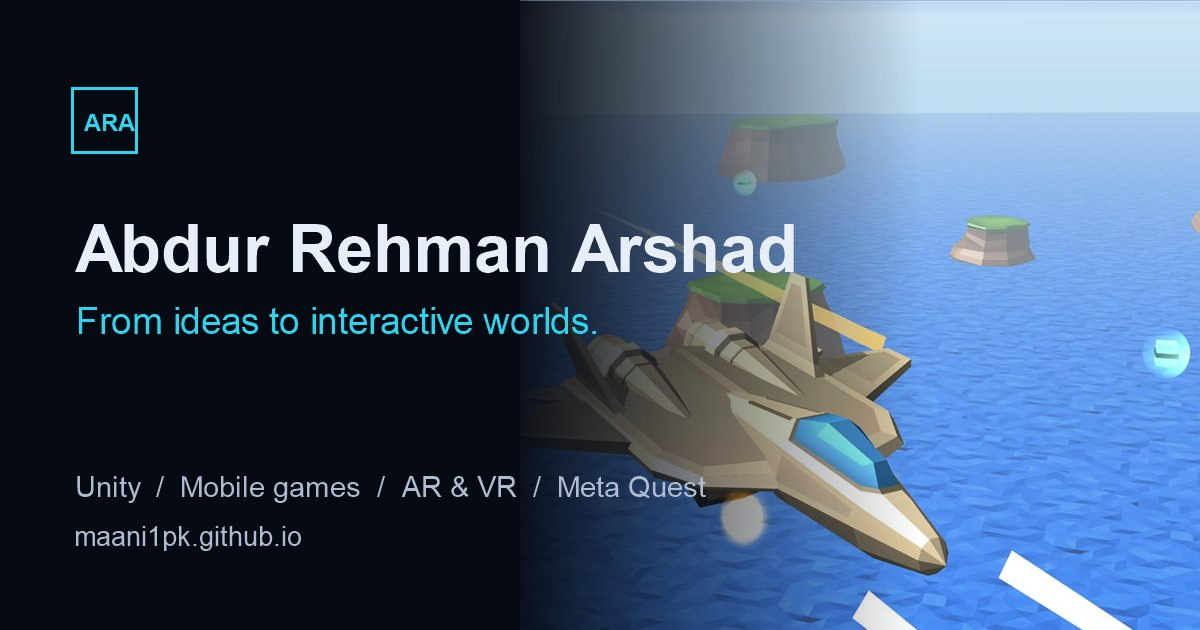
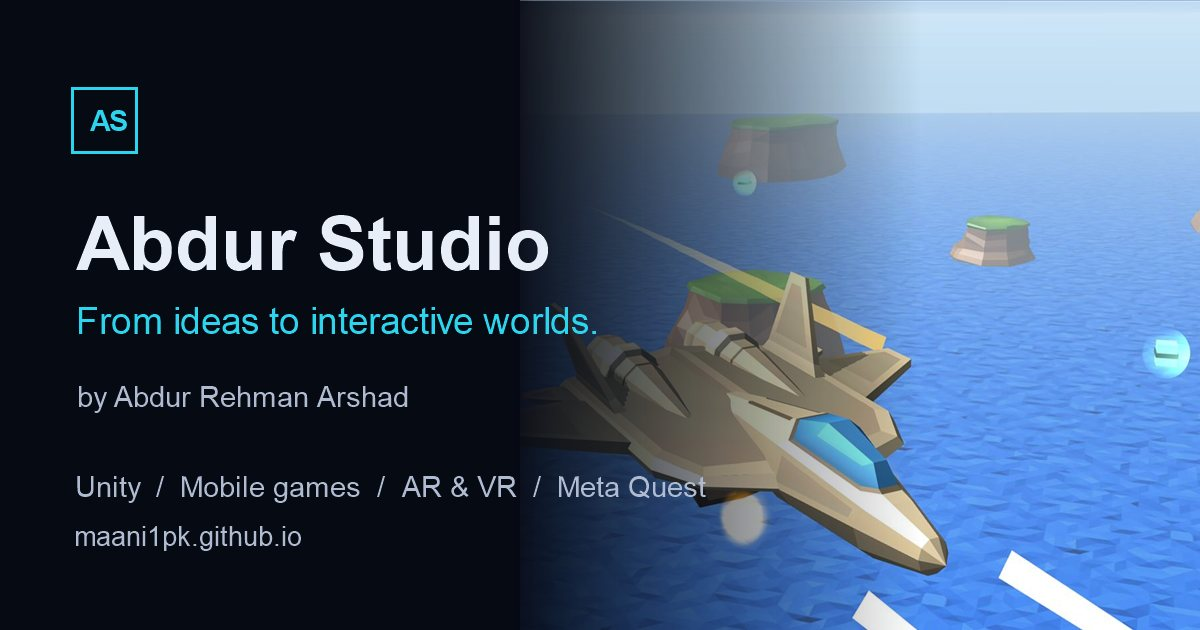
Rebrand as Abdur Studio; link original Skyfang site
Studio name set to Abdur Studio across pages, favicon and share image. Removed the duplicate Skyfang page; all Skyfang links now go to the existing /skyfang/ site, which is unchanged.

Changed region(s): [[0.0617, 0.3317, 0.6783, 0.4524], [0.0617, 0.6032, 0.3392, 0.6635], [0.0617, 0.181, 0.1233, 0.2111]]

diff --git a/index.html b/index.html
@@ -3,13 +3,13 @@
 <head>
 <meta charset="utf-8">
 <meta name="viewport" content="width=device-width, initial-scale=1">
-<title>Abdur Rehman Arshad — Unity, Game &amp; AR/VR Developer</title>
+<title>Abdur Studio — Games, Apps &amp; AR/VR by Abdur Rehman Arshad</title>
 <meta name="description" content="Abdur Rehman Arshad builds mobile games, Unity apps, AR and Meta Quest VR experiences and interactive 3D products — from concept to release. CEO of Vimersive Studio.">
 <link rel="canonical" href="https://maani1pk.github.io/">
 <meta name="theme-color" content="#060A13">
 <meta property="og:type" content="website">
-<meta property="og:site_name" content="Abdur Rehman Arshad">
-<meta property="og:title" content="Abdur Rehman Arshad — From ideas to interactive worlds">
+<meta property="og:site_name" content="Abdur Studio">
+<meta property="og:title" content="Abdur Studio — From ideas to interactive worlds">
 <meta property="og:description" content="Mobile games, Unity apps, AR/VR and interactive 3D — from concept to release.">
 <meta property="og:url" content="https://maani1pk.github.io/">
 <meta property="og:image" content="https://maani1pk.github.io/assets/img/og.jpg">
@@ -21,18 +21,18 @@
 <link rel="stylesheet" href="https://fonts.googleapis.com/css2?family=Inter:wght@400;500;600&amp;family=Sora:wght@500;600;700&amp;display=swap">
 <link rel="stylesheet" href="/assets/css/site.css">
 <script type="application/ld+json">
-{"@context":"https://schema.org","@type":"Person","name":"Abdur Rehman Arshad","url":"https://maani1pk.github.io/","jobTitle":"Unity, Game and AR/VR Developer","email":"mailto:maani1pk@gmail.com","worksFor":{"@type":"Organization","name":"Vimersive Studio","url":"https://vimersive.studio"},"knowsAbout":["Unity","C#","Game development","Augmented reality","Virtual reality","Meta Quest","OpenXR","AR Foundation"]}
+{"@context":"https://schema.org","@type":"Person","name":"Abdur Rehman Arshad","url":"https://maani1pk.github.io/","jobTitle":"Unity, Game and AR/VR Developer","email":"mailto:maani1pk@gmail.com","brand":{"@type":"Brand","name":"Abdur Studio"},"worksFor":{"@type":"Organization","name":"Vimersive Studio","url":"https://vimersive.studio"},"knowsAbout":["Unity","C#","Game development","Augmented reality","Virtual reality","Meta Quest","OpenXR","AR Foundation"]}
 </script>
 </head>
 <body>
 <a class="skip" href="#main">Skip to content</a>
 <header class="site-header">
 <nav class="wrap nav" aria-label="Main">
-<a class="brand" href="/"><span class="brand__mark" aria-hidden="true">ARA</span><span>Abdur Rehman Arshad</span></a>
+<a class="brand" href="/"><span class="brand__mark" aria-hidden="true">AS</span><span>Abdur Studio</span></a>
 <button class="nav-toggle" type="button" aria-expanded="false" aria-controls="site-menu">Menu</button>
 <div class="menu" id="site-menu">
 <a href="/work/">Work</a>
-<a href="/work/skyfang.html">Skyfang</a>
+<a href="/skyfang/">Skyfang</a>
 <a href="/services/">Services</a>
 <a href="/#studio">Studio</a>
 <a href="/#vimersive">Vimersive</a>
@@ -53,7 +53,7 @@
 <a class="btn btn--text" href="#studio">About my studio →</a>
 </div>
 </div>
-<a class="feature-shot" href="/work/skyfang.html">
+<a class="feature-shot" href="/skyfang/">
 <img src="/assets/img/skyfang/hero.jpg" alt="Skyfang fighter jet in flight above the clouds" width="1920" height="823" fetchpriority="high">
 <span class="feature-shot__bar">
 <img src="/assets/img/skyfang/icon.jpg" alt="" width="48" height="48">
@@ -78,7 +78,7 @@
 <a href="/work/">View full portfolio →</a>
 </div>
 <div class="grid" id="featured-projects"></div>
-<noscript><p class="muted">See the <a href="/work/skyfang.html">Skyfang project page</a>. The project gallery needs JavaScript.</p></noscript>
+<noscript><p class="muted">See the <a href="/skyfang/">Skyfang project page</a>. The project gallery needs JavaScript.</p></noscript>
 </section>
 
 <section class="section wrap split" aria-labelledby="about-h">
@@ -96,7 +96,7 @@
 <div class="wrap split split--center">
 <div class="stack">
 <p class="eyebrow">My independent studio</p>
-<h2 class="h2" id="studio-h" data-brand="studioName">[MY STUDIO NAME]</h2>
+<h2 class="h2" id="studio-h" data-brand="studioName">Abdur Studio</h2>
 <p class="muted">My own label for games, mobile apps, AR/VR and interactive experiences. Small by design: you work directly with the developer building your product, from prototype through release.</p>
 <div class="btn-row">
 <a class="btn btn--primary" href="/services/">See services</a>
@@ -143,9 +143,9 @@
 
 <footer class="site-footer">
 <div class="wrap">
-<span>© <span data-year>2026</span> Abdur Rehman Arshad · <span data-brand="studioName">[MY STUDIO NAME]</span></span>
+<span>© <span data-year>2026</span> Abdur Rehman Arshad · <span data-brand="studioName">Abdur Studio</span></span>
 <a href="/work/">Work</a>
-<a href="/work/skyfang.html">Skyfang</a>
+<a href="/skyfang/">Skyfang</a>
 <a href="/skyfang/privacy-policy.html">Skyfang privacy policy</a>
 <a href="/contact/">Contact</a>
 </div>

diff --git a/services/index.html b/services/index.html
@@ -3,12 +3,12 @@
 <head>
 <meta charset="utf-8">
 <meta name="viewport" content="width=device-width, initial-scale=1">
-<title>Services — Unity, Mobile, AR &amp; VR Development | Abdur Rehman Arshad</title>
+<title>Services — Unity, Mobile, AR &amp; VR Development | Abdur Studio</title>
 <meta name="description" content="Unity game development, mobile apps for Android and iOS, AR Foundation and Meta Quest VR development, and interactive 3D — by Abdur Rehman Arshad.">
 <link rel="canonical" href="https://maani1pk.github.io/services/">
 <meta name="theme-color" content="#060A13">
 <meta property="og:type" content="website">
-<meta property="og:site_name" content="Abdur Rehman Arshad">
+<meta property="og:site_name" content="Abdur Studio">
 <meta property="og:title" content="Services — Abdur Rehman Arshad">
 <meta property="og:description" content="Unity games, mobile apps, AR/VR and interactive 3D development.">
 <meta property="og:url" content="https://maani1pk.github.io/services/">
@@ -25,11 +25,11 @@
 <a class="skip" href="#main">Skip to content</a>
 <header class="site-header">
 <nav class="wrap nav" aria-label="Main">
-<a class="brand" href="/"><span class="brand__mark" aria-hidden="true">ARA</span><span>Abdur Rehman Arshad</span></a>
+<a class="brand" href="/"><span class="brand__mark" aria-hidden="true">AS</span><span>Abdur Studio</span></a>
 <button class="nav-toggle" type="button" aria-expanded="false" aria-controls="site-menu">Menu</button>
 <div class="menu" id="site-menu">
 <a href="/work/">Work</a>
-<a href="/work/skyfang.html">Skyfang</a>
+<a href="/skyfang/">Skyfang</a>
 <a href="/services/" aria-current="page">Services</a>
 <a href="/#studio">Studio</a>
 <a href="/#vimersive">Vimersive</a>
@@ -39,7 +39,7 @@
 </header>
 
 <main id="main" class="wrap" style="padding-block:72px 96px">
-<p class="eyebrow"><span data-brand="studioName">[MY STUDIO NAME]</span> · Services</p>
+<p class="eyebrow"><span data-brand="studioName">Abdur Studio</span> · Services</p>
 <h1 class="h1" style="font-size:clamp(36px,5vw,56px)">What I can build for you</h1>
 <p class="lead" style="margin:16px 0 56px">Each service is backed by projects in my portfolio. Where a skill is still growing, it's marked as such.</p>
 
@@ -53,7 +53,7 @@
 <li>Game UI implementation and scaling across devices</li>
 <li>Debugging and performance optimization on device</li>
 </ul>
-<p class="small">Shown in: <a href="/work/skyfang.html">Skyfang</a>, Pocket Pet Glow, boat racing prototype</p>
+<p class="small">Shown in: <a href="/skyfang/">Skyfang</a>, Pocket Pet Glow, boat racing prototype</p>
 </article>
 
 <article class="service">
@@ -121,7 +121,7 @@
 
 <footer class="site-footer">
 <div class="wrap">
-<span>© <span data-year>2026</span> Abdur Rehman Arshad · <span data-brand="studioName">[MY STUDIO NAME]</span></span>
+<span>© <span data-year>2026</span> Abdur Rehman Arshad · <span data-brand="studioName">Abdur Studio</span></span>
 <a href="/">Home</a>
 <a href="/work/">Work</a>
 <a href="/contact/">Contact</a>

diff --git a/work/index.html b/work/index.html
@@ -3,12 +3,12 @@
 <head>
 <meta charset="utf-8">
 <meta name="viewport" content="width=device-width, initial-scale=1">
-<title>Portfolio — Games, Apps, AR &amp; VR | Abdur Rehman Arshad</title>
+<title>Portfolio — Games, Apps, AR &amp; VR | Abdur Studio</title>
 <meta name="description" content="Mobile games, kids' apps, AR applications, Meta Quest VR and interactive 3D work by Abdur Rehman Arshad, plus client work with Vimersive Studio.">
 <link rel="canonical" href="https://maani1pk.github.io/work/">
 <meta name="theme-color" content="#060A13">
 <meta property="og:type" content="website">
-<meta property="og:site_name" content="Abdur Rehman Arshad">
+<meta property="og:site_name" content="Abdur Studio">
 <meta property="og:title" content="Portfolio — Abdur Rehman Arshad">
 <meta property="og:description" content="Games, apps, AR and VR projects, each labelled with its status and owner.">
 <meta property="og:url" content="https://maani1pk.github.io/work/">
@@ -25,11 +25,11 @@
 <a class="skip" href="#main">Skip to content</a>
 <header class="site-header">
 <nav class="wrap nav" aria-label="Main">
-<a class="brand" href="/"><span class="brand__mark" aria-hidden="true">ARA</span><span>Abdur Rehman Arshad</span></a>
+<a class="brand" href="/"><span class="brand__mark" aria-hidden="true">AS</span><span>Abdur Studio</span></a>
 <button class="nav-toggle" type="button" aria-expanded="false" aria-controls="site-menu">Menu</button>
 <div class="menu" id="site-menu">
 <a href="/work/" aria-current="page">Work</a>
-<a href="/work/skyfang.html">Skyfang</a>
+<a href="/skyfang/">Skyfang</a>
 <a href="/services/">Services</a>
 <a href="/#studio">Studio</a>
 <a href="/#vimersive">Vimersive</a>
@@ -50,12 +50,12 @@
 <p>Training &amp; simulation projects will be added once their details are confirmed.</p>
 </div>
 <div class="grid" id="project-grid"></div>
-<noscript><p class="muted">The project gallery needs JavaScript. See the <a href="/work/skyfang.html">Skyfang project page</a> or <a href="https://vimersive.studio">vimersive.studio</a>.</p></noscript>
+<noscript><p class="muted">The project gallery needs JavaScript. See the <a href="/skyfang/">Skyfang project page</a> or <a href="https://vimersive.studio">vimersive.studio</a>.</p></noscript>
 </main>
 
 <footer class="site-footer">
 <div class="wrap">
-<span>© <span data-year>2026</span> Abdur Rehman Arshad · <span data-brand="studioName">[MY STUDIO NAME]</span></span>
+<span>© <span data-year>2026</span> Abdur Rehman Arshad · <span data-brand="studioName">Abdur Studio</span></span>
 <a href="/">Home</a>
 <a href="/services/">Services</a>
 <a href="/contact/">Contact</a>

diff --git a/contact/index.html b/contact/index.html
@@ -3,12 +3,12 @@
 <head>
 <meta charset="utf-8">
 <meta name="viewport" content="width=device-width, initial-scale=1">
-<title>Contact — Work with Abdur Rehman Arshad</title>
+<title>Contact — Work with Abdur Studio</title>
 <meta name="description" content="Start a game, mobile app, AR or Meta Quest VR project with Abdur Rehman Arshad. Separate contact details for Vimersive Studio enquiries.">
 <link rel="canonical" href="https://maani1pk.github.io/contact/">
 <meta name="theme-color" content="#060A13">
 <meta property="og:type" content="website">
-<meta property="og:site_name" content="Abdur Rehman Arshad">
+<meta property="og:site_name" content="Abdur Studio">
 <meta property="og:title" content="Contact — Abdur Rehman Arshad">
 <meta property="og:description" content="Games, mobile apps, AR, Meta Quest and 3D experiences — let's talk.">
 <meta property="og:url" content="https://maani1pk.github.io/contact/">
@@ -25,11 +25,11 @@
 <a class="skip" href="#main">Skip to content</a>
 <header class="site-header">
 <nav class="wrap nav" aria-label="Main">
-<a class="brand" href="/"><span class="brand__mark" aria-hidden="true">ARA</span><span>Abdur Rehman Arshad</span></a>
+<a class="brand" href="/"><span class="brand__mark" aria-hidden="true">AS</span><span>Abdur Studio</span></a>
 <button class="nav-toggle" type="button" aria-expanded="false" aria-controls="site-menu">Menu</button>
 <div class="menu" id="site-menu">
 <a href="/work/">Work</a>
-<a href="/work/skyfang.html">Skyfang</a>
+<a href="/skyfang/">Skyfang</a>
 <a href="/services/">Services</a>
 <a href="/#studio">Studio</a>
 <a href="/#vimersive">Vimersive</a>
@@ -45,7 +45,7 @@
 <p class="muted">Games, mobile apps, AR, Meta Quest and 3D experiences. Share a few details and I'll reply by email.</p>
 
 <div class="panel stack" style="gap:6px">
-<h2 style="font-size:18px" data-brand="studioName">[MY STUDIO NAME]</h2>
+<h2 style="font-size:18px" data-brand="studioName">Abdur Studio</h2>
 <p class="small">Abdur Rehman Arshad · personal projects &amp; independent studio</p>
 <a href="mailto:maani1pk@gmail.com" data-brand-href="studioEmail" data-brand="studioEmail" style="font-weight:600;padding:8px 0">maani1pk@gmail.com</a>
 </div>
@@ -107,7 +107,7 @@
 
 <footer class="site-footer">
 <div class="wrap">
-<span>© <span data-year>2026</span> Abdur Rehman Arshad · <span data-brand="studioName">[MY STUDIO NAME]</span></span>
+<span>© <span data-year>2026</span> Abdur Rehman Arshad · <span data-brand="studioName">Abdur Studio</span></span>
 <a href="/">Home</a>
 <a href="/work/">Work</a>
 </div>

diff --git a/404.html b/404.html
@@ -3,7 +3,7 @@
 <head>
 <meta charset="utf-8">
 <meta name="viewport" content="width=device-width, initial-scale=1">
-<title>Page not found — Abdur Rehman Arshad</title>
+<title>Page not found — Abdur Studio</title>
 <meta name="robots" content="noindex">
 <meta name="theme-color" content="#060A13">
 <link rel="icon" href="/assets/img/favicon.svg" type="image/svg+xml">
@@ -15,7 +15,7 @@
 <body>
 <header class="site-header">
 <nav class="wrap nav" aria-label="Main">
-<a class="brand" href="/"><span class="brand__mark" aria-hidden="true">ARA</span><span>Abdur Rehman Arshad</span></a>
+<a class="brand" href="/"><span class="brand__mark" aria-hidden="true">AS</span><span>Abdur Studio</span></a>
 </nav>
 </header>
 <main id="main" class="wrap stack" style="padding-block:120px;max-width:720px">

diff --git a/assets/js/config.js b/assets/js/config.js
@@ -1,12 +1,12 @@
 /*
  * Brand settings — change these to rebrand the whole site.
  * Every element with data-brand="<key>" shows the value; data-brand-href="email" etc. fill links.
- * Page <title>/meta tags don't include the studio name; after you pick one, find/replace
- * "[MY STUDIO NAME]" across the repo to also update the static fallbacks.
+ * The studio name is also written into page titles, meta tags and no-JavaScript fallbacks;
+ * to rename, find/replace "Abdur Studio" across the repo too.
  */
 window.SITE = {
   personName: 'Abdur Rehman Arshad',
-  studioName: '[MY STUDIO NAME]',
+  studioName: 'Abdur Studio',
   studioEmail: 'maani1pk@gmail.com',
   accent: '#2DD4EE', // also --accent in assets/css/site.css
 

diff --git a/assets/js/projects.js b/assets/js/projects.js
@@ -13,7 +13,7 @@ window.PROJECTS = [
     platform: 'iPhone & iPad', tech: 'Unity · C#', role: 'Solo developer',
     desc: '38 arcade air-combat missions across 8 worlds, multi-phase bosses and 6 upgradable jets.',
     img: '/assets/img/skyfang/boss.jpg', imgFit: 'cover', alt: 'Skyfang boss aircraft battle',
-    link: '/work/skyfang.html', linkLabel: 'Project page'
+    link: '/skyfang/', linkLabel: 'Official game site'
   },
   {
     id: 'punchverse', name: 'PunchVerse VR', featured: true,

diff --git a/README.md b/README.md
@@ -24,7 +24,7 @@ Skyfang's own site (`/skyfang/`) lives in the separate `maani1pk/skyfang` reposi
 ## Common edits
 
 - **Studio name / email** — edit `assets/js/config.js`. Every `data-brand` element picks it up.
-  Then find/replace `[MY STUDIO NAME]` across the repo so the no-JavaScript fallbacks match.
+  To rename the studio, also find/replace `Abdur Studio` across the repo (titles, meta tags, fallbacks).
 - **Accent color** — `--accent` (and `--accent-line`) in `assets/css/site.css`.
 - **Add a project** — add an object to `assets/js/projects.js` and put images in `assets/img/projects/`
   (JPEG, about 900–1280 px wide). Set `featured: true` to show it on the home page.
